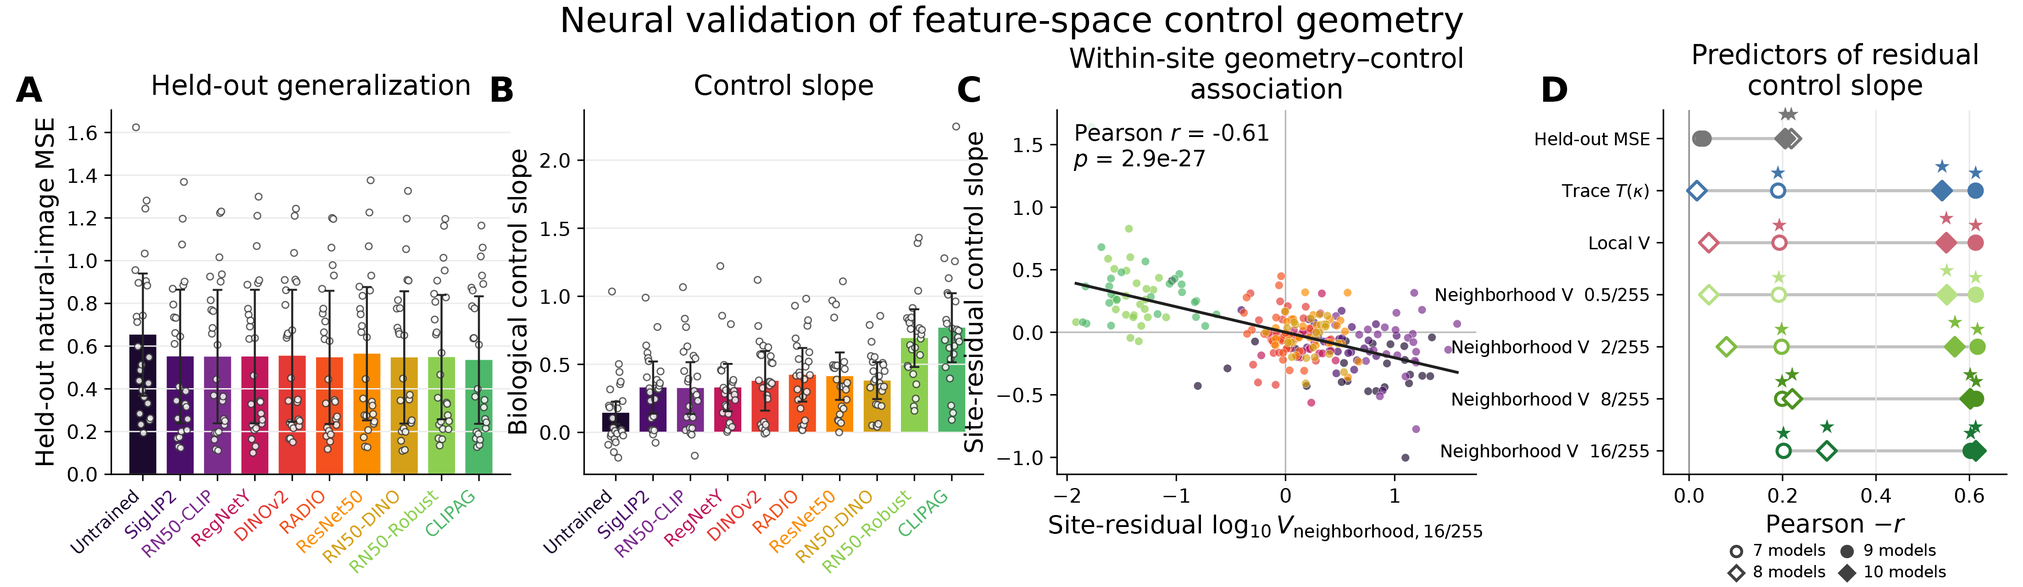
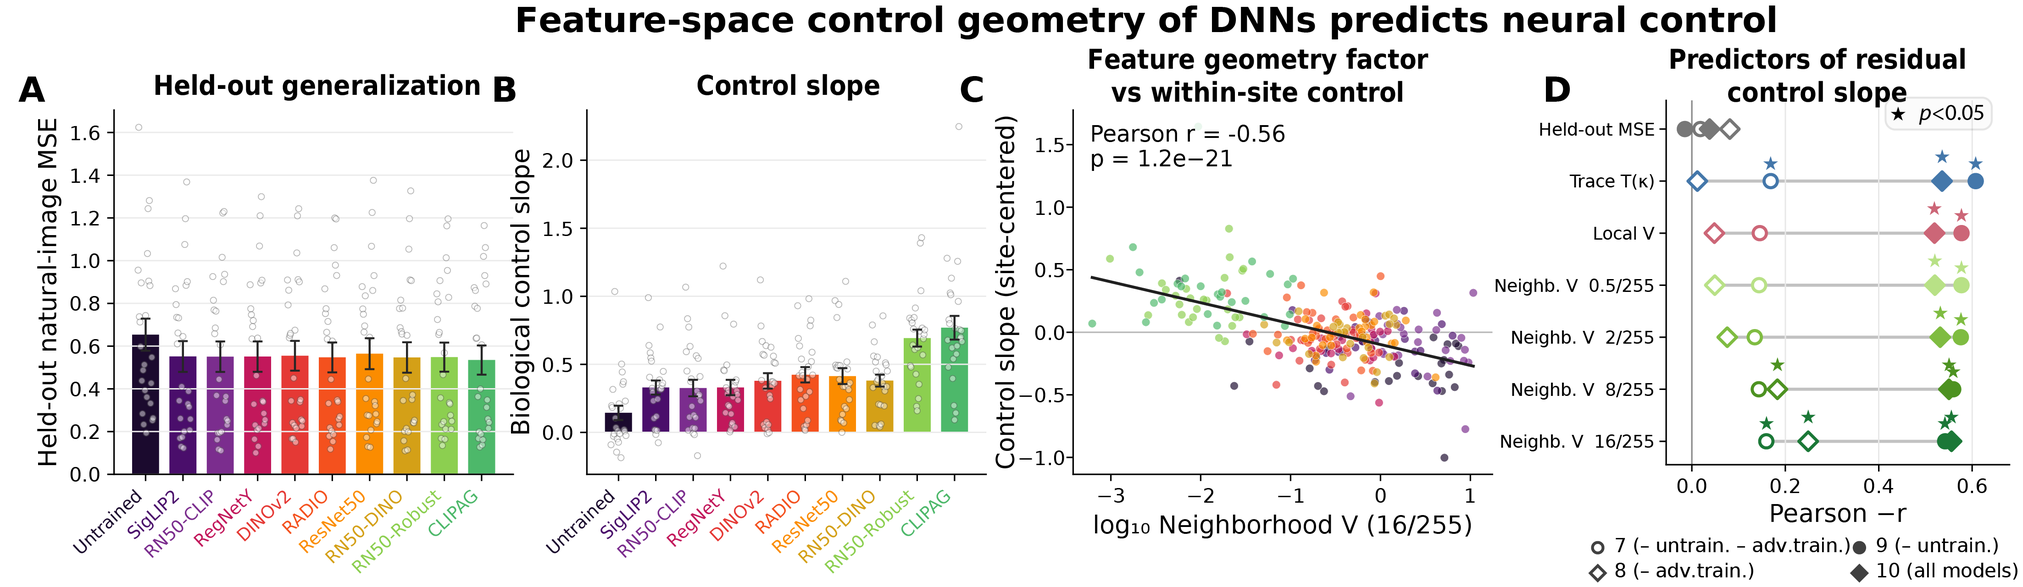
Rewrite the prose of pixel regression

diff --git a/main_body_compact.tex b/main_body_compact.tex
@@ -18,7 +18,7 @@ Classic generalization evaluates a fitted predictor on the natural-image distrib
 \end{abstract}
 
 \section{Introduction}
-A predictive model of a neural population is, in principle, also a controller: if $f(\x)$ predicts the response of a neuron to an image $\x$, one can synthesize images that drive $f$ to a target level and present them to the neuron. Model-based control of visual neurons has recently been carried out at scale with deep-network encoding models and gradient-based stimulus synthesis \citepPW. The result is puzzling. Encoding models that are nearly indistinguishable on held-out natural images generate visibly different stimuli and differ several-fold in how well those stimuli modulate the neuron; models that fail to control can still recognize the successful stimuli of other models; and the best predictor of control success is not accuracy but the spectral structure of the model's input gradient.
+A predictive model of a neural population is, in principle, also a controller: if $f(\x)$ predicts the response of a neuron to an image $\x$, one can synthesize images that drive $f$ to a target level and present them to the neuron. Model-based control of visual neurons has recently been carried out at scale with deep-network encoding models and gradient-based stimulus synthesis\todo{History... but recently \citepPW}. The result is puzzling. Encoding models that are nearly indistinguishable on predicting held-out natural images generate visibly different stimuli and differ several-fold in how well those stimuli modulate the neuron \textit{in vivo}; models that fail to control can still recognize the successful stimuli of other models; and the best predictor of control success is not accuracy but the spectral structure of the model's input gradient.
 
 We argue that none of this requires nonlinearity, depth or biology. It arises already for linear regression, from a single fact: \emph{control evaluates a model on a distribution the model itself generates}. Held-out prediction measures weight error in the metric of the data covariance $\Sigma$, which suppresses low-variance directions; accentuation moves along the fitted weight itself and therefore measures the same error in Euclidean geometry, where nothing is suppressed. For natural images, whose covariance spectrum decays over many orders of magnitude, this is the difference between not seeing an error and being dominated by it.
 
@@ -130,8 +130,10 @@ The question has a geometric reading (Fig.~\ref{fig:geometry}). For a given trai
 
 
 \paragraph{Toolkit.}
-We use deterministic equivalents (DEs) in the proportional limit $d/n\to\gamma$ \citep{dobriban2018high,hastie2022surprises}. It allows us to replace certain functions of the empirical covariance $\hat\Sigma$ with those of population covariance $\Sigma$, e.g. $\hat\Sigma(\hat\Sigma+\kappa I)^{-1}\asymp\Sigma(\Sigma+\kappa I)^{-1}$, 
-where finite-sample randomness is absorbed by the effective penalty $\kappa(\lambda)$, the positive root of the self-consistent equation $\kappa-\lambda=\frac{\kappa}{n}\operatorname{Tr}[\Sigma(\Sigma+\kappa I)^{-1}]$. More details about DEs are deferred to App.~\ref{sec:app-de-toolkit}. 
+We use deterministic equivalents (DEs) in the proportional limit $d/n\to\gamma$ \citep{dobriban2018high,hastie2022surprises}. It allows us to replace certain functions of empirical covariance $\hat\Sigma$ with those of the population covariance $\Sigma$, e.g. $\hat\Sigma(\hat\Sigma+\kappa I)^{-1}\asymp\Sigma(\Sigma+\kappa I)^{-1}$, 
+where finite-sample randomness is absorbed by the effective penalty $\kappa(\lambda)$, the positive root of the self-consistent equation $\kappa-\lambda=\frac{\kappa}{n}\operatorname{Tr}[\Sigma(\Sigma+\kappa I)^{-1}]$. 
+This allows us to capture the average effect of finite data $X$, without explicitly taking expectation over random matrices. 
+More details about DEs are deferred to App.~\ref{sec:app-de-toolkit}. 
 Our results are expressed through the teacher-weighted and unweighted spectral sums
 \begin{equation}
 B_{p,q}(\kappa)=\sum_k\frac{s_k^p}{(s_k+\kappa)^q}b_k^2,\qquad
@@ -141,18 +143,34 @@ For the ratio $N/D$ we use the leading approximation $\mu_N/\mu_D$ obtained from
 
 \begin{prop}[Pixel ridge: prediction and control]\label{prop:pixel-de}
 With $\kappa$, $B$ and $\mathrm{df}$ built from $\Sigma$,
+% \begin{equation}\small
+% E_{gen}\asymp E_{gen,DE}=\frac{n(\kappa^2B_{1,2}+\sigma^2)}{n-\mathrm{df}_2}-\sigma^2,
+% \quad
+% N\asymp \mu_N=B_{1,1},%\mu_N=
+% \quad
+% D\asymp \mu_D=B_{2,2}+\underbrace{\frac{\mathrm{df}_{1,2}}{n}\big(E_{gen,DE}+\sigma^2\big)}_{V}.%
+% \label{eq:pixel-de}
+% \end{equation}
 \begin{equation}\small
 E_{gen}\asymp E_{gen,DE}=\frac{n(\kappa^2B_{1,2}+\sigma^2)}{n-\mathrm{df}_2}-\sigma^2,
 \quad
-N\asymp \mu_N=B_{1,1},%\mu_N=
+N\asymp \mu_N=\underbrace{B_{1,1}}_{\bstar^\top \bar\beta_\kappa},%\mu_N=
 \quad
-D\asymp \mu_D=B_{2,2}+\frac{\mathrm{df}_{1,2}}{n}\big(E_{gen,DE}+\sigma^2\big).%
+D\asymp \mu_D=\underbrace{B_{2,2}}_{\|\bar\beta_\kappa\|^2}+\underbrace{\frac{\mathrm{df}_{1,2}}{n}\big(E_{gen,DE}+\sigma^2\big)}_{\text{norm inflation }  V}.%
 \label{eq:pixel-de}
 \end{equation}
 \end{prop}
-\red{
-The three quantities are sums of the same per-eigenmode weight error (Prop.~\ref{prop:mr-per-pc}) with different weights: $E_{gen}$ weights mode $k$ by $s_k$, $D$ weights every mode equally. The last term of $\mu_D$ is the Euclidean energy of estimation noise, $\frac1n(E_{gen}+\sigma^2)$ per effective mode times $\mathrm{df}_{1,2}=\sum_ks_k/(s_k+\kappa)^2$, which counts modes near and below $\kappa$ heavily. It inflates the student's norm without helping it predict, so the student over-shoots along its own path: $z_{acc}>0$, slope $<1$. Ridge also shrinks the signal ($B_{2,2}<B_{1,1}$), which pulls in the opposite direction. Whether the two cancel is a question about $\lambda$. For natural images, whose spectrum decays as a power law over $10^4$ pixel modes, $\mathrm{df}_{1,2}$ counts thousands of weakly constrained high-spatial-frequency modes; the estimation noise that lands there is precisely the high-frequency texture of failed accentuations, and it costs almost nothing in $E_{gen}$.
-}
+$E_{gen}$ recovers the classic in distribution generalization error  \cite{alex,surya,blake}. 
+Let $\bar\beta_\kappa=\Sigma(\Sigma+\kappa I)^{-1}\bstar$, the average student weight (DE) at given regularization. Then $N=B_{1,1}$ and the first term of $D$  are relatively benign and controlled by the teacher weights, since $\|\bstar\|^2\geq B_{1,1} \geq B_{2,2}$ (\ref{eq:}). 
+However, the 2nd term of $D$ marked as $V\geq0$ is the key issue. It summarizes how limited data $n$, higher noise ($\sigma^2$), higher generalization error $E_{gen}$ and a spectral summary $\mathrm{df}_{1,2}$ jointly inflate the student norm $D$. $\mathrm{df}_{1,2}$ counts the number of modes near the regularization threshold $\kappa$. 
+As a result, increasing $V$ will $D$ causing student to over-predict the variance it induces, leading to $\text{slope}=N/D<1$; it can also inflate $z=D/N-1$ , potentially leading to negative $R^2=1-z^2$. 
+Later we will generalize this term $V$ to predict control success of visual neuron (Sec.~\ref{sec:nonlinear}). 
+
+Note that, $V$ is not necessarily bad for control: at a special point where,  $B_{1,1}=B_{2,2}+V$, i.e. this inflation replenishes the norm deflation caused by the shrinkage, thus $N=D$ and control is perfect at leading order (the valley in Fig.~\ref{fig:pixel}\textbf{B}). 
+The condition is summarized below, and it's generally different from the condition for best generalization error which cross validation selects for. 
+% \red{
+% The three quantities are sums of the same per-eigenmode weight error (Prop.~\ref{prop:mr-per-pc}) with different weights: $E_{gen}$ weights mode $k$ by $s_k$, $D$ weights every mode equally. The last term of $\mu_D$ is the Euclidean energy of estimation noise, $\frac1n(E_{gen}+\sigma^2)$ per effective mode times $\mathrm{df}_{1,2}=\sum_ks_k/(s_k+\kappa)^2$, which counts modes near and below $\kappa$ heavily. It inflates the student's norm without helping it predict, so the student over-shoots along its own path: $z_{acc}>0$, slope $<1$. Ridge also shrinks the signal ($B_{2,2}<B_{1,1}$), which pulls in the opposite direction. Whether the two cancel is a question about $\lambda$. For natural images, whose spectrum decays as a power law over $10^4$ pixel modes, $\mathrm{df}_{1,2}$ counts thousands of weakly constrained high-spatial-frequency modes; the estimation noise that lands there is precisely the high-frequency texture of failed accentuations, and it costs almost nothing in $E_{gen}$.
+% }
 
 \begin{prop}[Prediction-optimal and control-optimal penalties differ]\label{prop:pixel-tuning}
 Among admissible values of $\kappa$, let $\kappa_{\rm gen}^{\star}$ be an
@@ -184,16 +202,25 @@ z^{(0)}_{acc,CV}=\frac{\kappa\,\mathrm{df}_{1,2}}{B_{1,1}}
 \label{eq:pixel-zacc-cv}
 \end{equation}
 \end{prop}
-Both conditions equate the noisy prediction risk to $n\kappa$ times a teacher-weighted spectral average, but they average with different powers of $s_k/(s_k+\kappa)$. For isotropic data the two averages coincide and cross-validation \red{calibrates} control for free. For an anisotropic spectrum they differ whenever the teacher's energy is not uniformly distributed over modes (\red{\ref{close_condition}}). \red{The gap is multiplied by $\kappa\,\mathrm{df}_{1,2}$, i.e. by the number of modes near the regularization edge. In Fig.~\ref{fig:geometry}, Eq.~\ref{eq:pixel-zacc-cv} is the distance along the path between its tangency with the prediction ellipsoid and its crossing of the control sphere.} This answers the question in the title for pixel regression: \emph{control is bad, despite prediction-optimal tuning, when the response is noisy, the spectrum is anisotropic, and many modes sit near $\kappa$}, which is exactly the noisy neuron with natural-image regime. 
+Geometrically, along the ridge path (Fig.~\ref{fig:geometry}),  $\kappa_{\rm gen}^{\star}$ is the tangency with the prediction ellipsoid and its crossing of the control sphere reveals $\kappa_{\rm acc}^{\star}$. 
+Both conditions equate the noisy prediction risk to $n\kappa$ times the average teacher power in a bump like spectral band $B_{i,i}/\mathrm{df}_{i,i}$, where $\mathrm{df}_{i,i}$ specifies the band of averaging. Since $\mathrm{df}_{1,2}\geq\mathrm{df}_{2,3}$, control averages at a slightly higher band. 
+For isotropic data the two averages coincide and cross-validation nullifies control error for free; similarly when the teacher's energy is uniformly distributed over modes  (\red{\ref{close_condition}}). For an anisotropic spectrum and a structured teacher, they differ generally, and their difference is proportional to the control error $z$ at cross validated penalty $\kappa_{\rm gen}^{\star}$. 
+ %teacher-weighted spectral average $B_{,}$, but they average with different powers of $s_k/(s_k+\kappa)$. 
+% Eq.~\ref{eq:pixel-zacc-cv} is the distance along the path between its tangency with the prediction ellipsoid and its crossing of the control sphere.
+%The gap is multiplied by $\kappa\,\mathrm{df}_{1,2}$, i.e. by the number of modes near the regularization edge. 
+
+We visualize the landscape of prediction and control error over the noise-regularization plane ($\sigma^2,\kappa$), for regression on natural images (Fig.~\ref{fig:pixel}A-C). 
+Our DE formula generally well tracks the Monte Carlo estimate of the error (Fig.\ref{suppfig:pixl-MC}), where deviation from leading DE occurs only at very low noise or low regularization cases. 
+The prediction-optimal and control-optimal penalties form two distinct valleys, where the $E_{acc}$ valley is a cusp and much sharper than $E_{gen}$. 
+At lower noise, prediction-optimal $\kappa^\star_{\rm gen}$ is also benign to control; however, at higher noise, $\kappa^\star_{\rm gen}$ gradually approaches and crosses the cliff of $R^2_{acc}=0$ , and control error fails catastrophically. 
+
+% Figure~\ref{fig:pixel} confirms the picture on real natural-image regression. The DE surfaces track Monte Carlo over eight decades of noise; the prediction-optimal and control-calibrated penalties form two distinct ridges; and along the cross-validated path the student remains an excellent predictor while its accentuation $R^2$ becomes negative at moderate noise. 
+
+% \red{In Fig.~\ref{fig:geometry}, Eq.~\ref{eq:pixel-zacc-cv} is the distance along the path between its tangency with the prediction ellipsoid and its crossing of the control sphere.} 
+This answers the question in the title for pixel regression: \emph{control is bad, despite prediction-optimal regularization, when the response is noisy, the spectrum is anisotropic, and many modes sit near $\kappa$}, which is exactly the noisy neuron with natural-image regime. 
 
 \begin{figure}[t]
     \centering
-    % \includegraphics[width=0.48\linewidth,height=0.3\textheight,keepaspectratio]{figures/draft_landscape_error.png}\hfill
-    % \includegraphics[width=0.5\linewidth,height=0.3\textheight,keepaspectratio]{figures/draft_slices_prediction_selected_r2.png}
-    % \includegraphics[width=\linewidth]{figures/paper_composite_default_best_figexport.pdf}
-    % \caption{\textbf{Pixel ridge on van Hateren images ($d=10^4$, $n=10^3$, disk teacher).}
-    % \textbf{A}~Leading-DE control error $E_{acc}/S$ over noise $\sigma^2/S$ and penalty $\lambda$. The prediction-optimal path (white) and the control-calibrated path (pink) separate at all noise levels; Monte Carlo on real images (App.) reproduces the surface.
-    % \textbf{B}~Along the empirically cross-validated path, $R^2_{gen}$ stays above $0.9$ while $R^2_{acc}$ collapses once $\sigma^2/S\gtrsim0.1$; DE (lines) versus 100 natural-image trials (markers, 10--90\% band). Bottom: selected $\lambda$ and $\kappa$.}
     \vspace{-15pt}
     \includegraphics[width=\linewidth]{figures/Figure_PixRidgeGeometry.png}
     \vspace{-15pt}
@@ -207,28 +234,36 @@ Both conditions equate the noisy prediction risk to $n\kappa$ times a teacher-we
     \label{fig:pixel}
 \end{figure}
 
-Figure~\ref{fig:pixel} confirms the picture on real natural-image regression. The DE surfaces track Monte Carlo over eight decades of noise; the prediction-optimal and control-calibrated penalties form two distinct ridges; and along the cross-validated path the student remains an excellent predictor while its accentuation $R^2$ becomes negative at moderate noise. 
+
 
 \paragraph{Peer review: recognition without generation.}
-Now evaluate $\bhat$ on the path of a peer $\bprime$ fitted at the same $\kappa$ with independent noise realization. The two noise realizations are uncorrelated, so the Euclidean noise term that inflates $D$ drops out of the cross products: ${\bhat}^\top\bprime\asymp B_{2,2}$ and ${\bstar}^\top\bprime\asymp B_{1,1}$, and the \red{peer gain} and score are
+Peer review evaluate $\bhat$ on the path of a peer $\bprime$. Here we assume the peer is fitted at the same $\kappa$ with independent noise realization. The two noise realizations are uncorrelated, so the Euclidean noise term that inflates $D$ drops out of the cross products: ${\bhat}^\top\bprime\asymp B_{2,2}$ and ${\bstar}^\top\bprime\asymp B_{1,1}$, since $B_{1,1}\geq B_{2,2}$ (\red{Eq.~\ref{eq:app}}), the peer slope and score are
 \begin{equation}
-G_{peer}=\frac{{\bhat}^\top\bprime}{{\bstar}^\top\bprime}\asymp\frac{B_{2,2}}{B_{1,1}}\in(0,1],
+%G_{peer}=\frac{{\bhat}^\top\bprime}{{\bstar}^\top\bprime}\asymp\frac{B_{2,2}}{B_{1,1}}\in(0,1]
+\text{slope}_{peer}=\frac{{\bstar}^\top\bprime}{{\bhat}^\top\bprime}\asymp\frac{B_{1,1}}{B_{2,2}}\in[1,\infty),
 \qquad
 R^{2,(0)}_{peer}=1-\Big(1-\frac{B_{2,2}}{B_{1,1}}\Big)^2\in(0,1]
 \label{eq:peer-de}
 \end{equation}
-(Prop.~\ref{prop:mr-peer}). Peer review measures only the shared shrinkage bias: at leading order it is never negative, degrades gracefully with noise, and is symmetric between the two fits. Self-evaluation instead carries the estimator's own Euclidean noise energy through Eq.~\ref{eq:pixel-de}, so $z_{acc}$ grows without bound with $\sigma^2/n$ and $R^2_{acc}$ becomes arbitrarily negative. A student can therefore track a peer's path while failing on its own, which is the linear form of Fig.~\ref{fig:phenomena}C. The asymmetry between a strong and a weak generator in the data arises when the two differ in noise energy, i.e. in their feature maps (Sec.~\ref{sec:feature}); and measured responses along a barely modulated path add trial noise that no evaluator can explain, which is why even the peer scores of a weak generator's images are poor.
+(Prop.~\ref{prop:mr-peer}). 
+Note, on the leading order, the peer review slope is never less than $1$, i.e., generally, the \textit{student is under-predicting the teacher on its peer's path}; the peer review $R^2$ is non-negative, and degrades gracefully with noise, through CV selected regularization $\kappa_{cv}$. 
+In contrast, for self generated path, the joint effect of finite data, noise, and generalization error ($\frac{\mathrm{df}_{1,2}}{n}\big(E_{gen,DE}+\sigma^2\big)$ in Eq.~\ref{eq:pixel-de}) inflates the student norm $D=\|\bhat\|^2$, causing over-prediction of teacher ($\text{slope}_{acc}=N/D<1$), and arbitrarily large $z_{acc}=D/N-1$ and negative $R^2$. 
+The sign differences in neural data confirm this leading order picture: in \citetPW, the peer review score between pairs of models, have $R^2=0.04,[-0.06,0.10]$, $slope=1.35,[1.14,1.59]$ ($n=90$); while accentuation score (eval on self generated path) have $R^2=-4.17,[-4.59,-3.51]$, $slope=0.38,[0.33,0.42]$ (median, [IQR] $n=10$). % stats test between the two \todo
+Note, in simplistic pixel space peer review, the slope and $R^2$ are symmetric between models ($A\leftarrow B$ or $B\leftarrow A$). In practice, since students regress onto different features, the review score becomes asymmetric (Sec.~\ref{sec:feature}). 
+% Peer review measures only the shared shrinkage bias: at leading order it is never negative, degrades gracefully with noise, and is symmetric between the two fits. Self-evaluation instead carries the estimator's own Euclidean noise energy through Eq.~\ref{eq:pixel-de}, so $z_{acc}$ grows without bound with $\sigma^2/n$ and $R^2_{acc}$ becomes arbitrarily negative. A student can therefore track a peer's path while failing on its own, which is the linear form of Fig.~\ref{fig:phenomena}C. 
+% The asymmetry between a strong and a weak generator in the data arises when the two differ in their feature maps (Sec.~\ref{sec:feature}); %and measured responses along a barely modulated path add trial noise that no evaluator can explain, which is why even the peer scores of a weak generator's images are poor.
 
 \begin{figure}[t]
     \centering
     \vspace{-15pt}
-    \includegraphics[width=0.55\linewidth,height=0.22\textheight,keepaspectratio]{figures/feature_summary_statistics_flow.pdf}%\hfill
-    \includegraphics[width=0.45\linewidth,height=0.2\textheight,keepaspectratio]{figures/VanHateren_Top500PC_prediction_null_feature_rotation.png}
+    % \includegraphics[width=0.55\linewidth,height=0.22\textheight,keepaspectratio]{figures/feature_summary_statistics_flow.pdf}%\hfill
     % \includegraphics[width=0.44\linewidth,height=0.22\textheight,keepaspectratio]{figures/nonlinear_control_biological_validation.pdf}\\[2pt]
+    % \includegraphics[width=0.45\linewidth,height=0.2\textheight,keepaspectratio]{figures/VanHateren_Top500PC_prediction_null_feature_rotation.png}
+    \includegraphics[width=\linewidth]{figures/Figure_linear_feature_gauge.png}
     \vspace{-15pt}
     \caption{\textbf{Feature geometry decides control.}
-    \textbf{A}~Dependency graph: $(\Sigma_F,F\Sigma\bstar,S,\sigma^2,n)$ fix generalization and the cross-validated penalty; control additionally needs $\GramDef$ and $F\bstar$ (draft: to be simplified to $\sim$8 boxes).
-    \textbf{B}~Rotating a top-500-PC projector of van Hateren images into the prediction-null spectral tail: $E_{gen}$ and $R^2_{gen}$ are invariant while $R^2_{acc}$ and the slope collapse; DE (lines) matches finite-$n$ Monte Carlo (markers). }
+    \textbf{A}~Dependency graph: $(\Sigma_F,F\Sigma\bstar,S,\sigma^2,n)$ fix generalization and the cross-validated penalty; control additionally needs $\GramDef$ and $F\bstar$. 
+    \textbf{B-D}~For van Hateren images, rotating the top-500-PC projector feature into the spectral tail: $E_{gen}$ and $R^2_{gen}$ are invariant while $R^2_{acc}$ and the slope collapse; DE (lines) matches finite-$n$ Monte Carlo (markers). }
     %\textbf{C}~Neuronal data: site-demeaned association of each candidate predictor with biological control slope (left) and control error (right) across nine trained (filled) and seven conventionally trained (open) models. Held-out error carries no model-order information; the exact trace, $V_\phi$ and its neighborhood versions do. (Draft: keep 5 rows.)}
     \label{fig:feature}%\label{fig:nonlinear-biological-validation}
 \end{figure}
@@ -249,46 +284,49 @@ D_{DE}=\|\tilde\beta_\kappa\|^2+\frac{E_{gen,DE}+\sigma^2}{n}\,T_F(\kappa),
 where $\tilde\beta_\kappa=F^\top(\Sigma_F+\kappa I)^{-1}F\Sigma\bstar$ is the mean pixel weight and
 $T_F(\kappa):=\operatorname{Tr}[\Gram(\Sigma_F+\kappa I)^{-2}\Sigma_F]$.
 \end{prop}
-Prediction sees the feature map only through $\Sigma_F$ and $F\Sigma\bstar$: the whole curve $E_{gen,DE}(\kappa)$, hence the cross-validated $\kappa$ and $R^2_{gen}$, is a function of $(\Sigma_F,F\Sigma\bstar,S,\sigma^2,n)$. Control additionally sees $\Gram$, through $T_F$ and $\|\tilde\beta_\kappa\|$, and $F\bstar$, through $N_{DE}$ (Fig.~\ref{fig:feature}A). This is the statistical content of the dissociation: the prediction problem does not identify the control problem.
-
+% A salient observation is: prediction sees the feature map only through $\Sigma_F$ and $F\Sigma\bstar$, so the whole curve $E_{gen,DE}(\kappa)$, hence the cross-validated $\kappa$ and $R^2_{gen,cv}$, is a function of the sumary statistics $(\Sigma_F,F\Sigma\bstar,S,\sigma^2,n)$. Control additionally sees $\Gram$, (through $T_F$ and $\|\tilde\beta_\kappa\|$), and $F\bstar$, (through $N_{DE}$) (Fig.~\ref{fig:feature}A). Thus, for feature regression, 
+%This is the statistical content of the dissociation: the prediction problem does not identify the control problem.
+A salient observation is that prediction sees the feature map only through $\Sigma_F$ and $F\Sigma\bstar$: the whole curve $E_{gen,DE}(\kappa)$, hence the cross-validated $\kappa$ and $R^2_{gen,cv}$, is a function of the summary statistics $(\Sigma_F, F\Sigma\bstar, S_\perp, \sigma^2, n)$. Control additionally depends on $\Gram$, through $T_F$ and $\|\tilde\beta_\kappa\|$, and on $F\bstar$, through $N_{DE}$ (Fig.~\ref{fig:feature}A). Thus, for feature regression, \textit{the statistics governing control generically subsume and exceed those governing prediction}; except for special cases, where the two sets coincide (e.g. $\Sigma=I$, so $\Gram=\Sigma_F$,$F\bstar=F\Sigma\bstar$; see \red{App.} for discussion). 
+This extra degree of freedom can be seen clearly through the group that transforms feature map without affecting prediction. 
 \begin{prop}[Prediction-preserving gauge]\label{prop:gauge}
-For $\Sigma\succ0$ and any orthogonal $Q$ with $Q\Sigma^{1/2}\bstar=\Sigma^{1/2}\bstar$, the map $F\mapsto F\Sigma^{1/2}Q\Sigma^{-1/2}$ preserves $\Sigma_F$ and $F\Sigma\bstar$, hence the training law, $E_{gen,DE}(\kappa)$ and the DE cross-validated penalty, while changing $\Gram$ and $F\bstar$ and therefore control.
+For $\Sigma\succ0$ and any orthogonal $Q$ with $Q\Sigma^{1/2}\bstar=\Sigma^{1/2}\bstar$, the map $F\mapsto F\Sigma^{1/2}Q\Sigma^{-1/2}$ preserves $\Sigma_F$ and $F\Sigma\bstar$, hence the joint feature–response covariance, $E_{gen,DE}(\kappa)$ and the DE-based prediction-optimal penalty $\kappa^\star_{gen}$. %, while changing $\Gram$ and $F\bstar$ and therefore control. %
 \end{prop}
-For white data, the accentuation error is also invariant across this gauge group, leading to no dissociation. Variation of accentuation error grows with anisotropy. Rotating within it moves feature energy from high-variance to low-variance pixel directions at no cost to prediction (Fig.~\ref{fig:feature}B): along a continuous path, $E_{gen}$, $R^2_{gen}$ and the selected penalty are exactly constant, while $\operatorname{Tr}(FF^\top)$ grows by four orders of magnitude and $R^2_{acc}$ falls from near one to $-10^{8}$. Random draws from the family span this whole range (\red{App.}), so a population of equally predictive backbones with widely different control is the generic situation, not a construction.
+Note, the gauge acts nontrivially on control only when the input is anisotropic: in white data, control error is also invariant to this group. 
+\red{Variation of accentuation error grows with anisotropy. Rotating within it moves feature energy from high-variance to low-variance pixel directions at no cost to prediction (Fig.~\ref{fig:feature}B): along a continuous path, $E_{gen}$, $R^2_{gen}$ and the selected penalty are exactly constant, while $\operatorname{Tr}(FF^\top)$ grows by four orders of magnitude and $R^2_{acc}$ falls from near one to $-10^{8}$. Random draws from the \textit{rotation group} span a huge range (\red{App.}), so a population of equally predictive backbones with widely different control is the generic situation, not a construction.}
+% For white data, the accentuation error is also invariant across this gauge group, leading to no dissociation. 
 
 \paragraph{What makes a map fragile.}
-The factor $T_F$ is response-independent and has the spectral form (Prop.~\ref{prop:mr-fragility})
+The factor $T_F$ is response-independent and has the spectral form
 \begin{equation}
-T_F(\kappa)=\sum_{k:s_k>0}\Big(\frac{s_k}{s_k+\kappa}\Big)^2\frac{\|g_k\|^2}{g_k^\top\Sigma g_k},
+T_F(\kappa):=\operatorname{Tr}[FF^\top(\Sigma_F+\kappa I)^{-2}\Sigma_F]=\sum_{k:s_k>0}\Big(\frac{s_k}{s_k+\kappa}\Big)^2\frac{\|g_k\|^2}{g_k^\top\Sigma g_k},
 \qquad g_k:=F^\top v_k,
 \label{eq:TF}
 \end{equation}
-with $(s_k,v_k)$ the eigenpairs of $\Sigma_F$. It averages, over the feature PCs that survive ridge shrinkage, the ratio between the Euclidean energy of the backpropagated PC gradient and its energy under the natural-image covariance. A map is fragile when its well-resolved feature directions backpropagate into low-variance, high-spatial-frequency pixel directions. This is the linear counterpart of the third observation of Sec.~\ref{sec:phenomena}, and it can be computed from the map and the image statistics alone.
+with $(s_k,v_k)$ the eigenpairs of $\Sigma_F$ (Prop.~\ref{prop:mr-fragility}). It averages, over the feature PCs that survive ridge shrinkage ($s_k^2/(s_k+\kappa)^2\sim1$), the ratio between the Euclidean energy of the backpropagated PC gradient $\|g_k\|^2$ and its energy under the natural-image covariance $g_k^\top\Sigma g_k$. Thus, a map is fragile when its \textit{well-resolved feature directions backpropagate into low-variance, high-spatial-frequency pixel directions}. This is the linear counterpart of the third observation of Sec.~\ref{sec:phenomena}, and it can be computed from the map and the image statistics alone.
 
-\begin{center}
-\fbox{\parbox{0.96\linewidth}{\small
-\textbf{When is control fragile although prediction is fine?}
+\paragraph{Summary: When is control fragile although prediction is fine?}
 Holding the prediction error fixed, the leading control error (Eqs.~\ref{eq:pixel-de}, \ref{eq:pixel-zacc-cv}, \ref{eq:feature-de}) grows with three separable factors:
 \textbf{(i) noise} $(E_{gen}+\sigma^2)/n$, the estimation-noise level, which is the only factor visible from held-out accuracy;
 \textbf{(ii) spectrum} the mismatch between prediction-optimal and control-optimal penalties, Eq.~\ref{eq:pixel-zacc-cv}, which is zero for white data and grows with anisotropy and with teacher energy in low-variance modes;
 \textbf{(iii) map} $T_F$, the ridge-weighted ratio of Euclidean to natural-covariance gradient energy, a property of the feature map alone.
 Visual neuronal responses are known to be highly noisy \red{\cite{?}} meeting (i); 
-Natural images make (ii) large for every model; the feature map decides (iii), and equally predictive maps can differ in it without bound.}}
-\end{center}
+Natural images make (ii) large for every model; the feature map decides (iii), and equally predictive maps can differ in it without bound.
+
 
 
 \begin{figure}[t]
     \centering
     \vspace{-10pt}
     \includegraphics[width=\linewidth]{figures/Figure_nonlinear_neuro_diagnostic.png}
-    \vspace{-15pt}
+    \vspace{-18pt}
     \caption{\textbf{Nonlinear gradient-feature geometry predicts biological control across encoding models.}
-% We evaluated ten encoding models at 25 neural recording sites from five subjects. Control-session predictions use a frozen site-specific affine map fitted only on natural-image anchors shared across sessions.
-We reproduced the results using published data from \citetPW. 
-\textbf{A}~MSE on held-out natural images during the control session, analogous to $E_{\mathrm{val}}\approx E_{gen}+\sigma^2$.
-\textbf{B}~Biological control slope of measured over predicted responses for model-generated stimuli. In \textbf{A,B}, bars are mean of 25 neural sites (dots), \red{and error bars denote $\pm2$ subject-level SE}.
-\textbf{C}~After removing each site's mean across-model, the factor $V_{\phi}=(E_{\mathrm{val}}/n)T_{\phi}(\kappa)$ computed using Jacobian with neighborhood of scale $16/255$ (\red{cf.Eq.\ref{x}}) is strongly anticorrelated with control slope (Pearson $r=-0.61$). % across 250 site--model pairs 
-\textbf{D}~Pearson $-r$ between residual control slope and some predictive factors (held-out MSE, exact trace, exact local $V_{\phi}$, or neighborhood $V_{\phi}$ at four scales); our factor $V,T$ outperforms held-out MSE in predicting control slope; \red{larger values indicate stronger association in the predicted direction}. Markers denote: 10 - all, 9 - exclude Untrained, 8 - exclude adversarial trained (RN50-Robust and CLIPAG), 7 - exclude all three. Stars denote raw two-sided Pearson $p<0.05$.} %Site means are fixed from all ten models.  without multiple-comparison correction
+% We evaluated ten encoding models at 25 neural recording sites from five subjects. Control-session responses were aligned to the encoding-session scale using a site-specific affine map fitted only on repeated natural-image anchors and shared across models.
+We reproduced the results using published preprocessed data from \citetPW. 
+\textbf{A}~MSE on held-out natural-image in the control session, analogous to $E_{\mathrm{val}}\approx E_{\mathrm{gen}}+\sigma^2$.
+\textbf{B}~Control slope between \textit{in vivo} measured and model-predicted neural responses to accentuated stimuli. In \textbf{A,B}, bars show the mean across 25 sites, dots show individual sites, and error bars denote $\pm1$ SE across sites.
+\textbf{C}~Raw $\log_{10}V_\phi$ computed from Jacobian energy averaged over a $16/255$ neighborhood is anticorrelated with control slope after removing each site's ten-model mean (Pearson $r=-0.56$ across 250 site--model pairs).
+\textbf{D}~Pearson correlation ($-r$) between site-centered control slope and seven raw $\log_{10}$ predictors: held-out MSE, the gradient-geometry trace $T_\phi(\kappa)$, exact-local $V_\phi$, and neighborhood $V_\phi$ at four scales. 
+Control slope was mean-subtracted within site using all ten models; predictors remained raw. Markers denote 10/9/8/7-model subsets (all / no untrained AlexNet / no robust models (CLIPAG,RN50-robust) / neither), and stars indicate raw two-sided Pearson $p<0.05$.} %without multiple-comparison correction
     \label{fig:nonlinear-biological-validation}
 \end{figure}
 

diff --git a/main_body_compact_draft.tex b/main_body_compact_draft.tex
@@ -253,3 +253,4 @@ A single mechanism accounts for the three neuronal phenomena: prediction measure
 
 \paragraph{Limitations.}
 The theory assumes Gaussian inputs, a linear teacher, a fixed linear feature map and a one-dimensional accentuation path from a centered seed; the leading DEs predict typical fits and the location of the control optimum but not the fluctuation-dominated error at that optimum (App.~\ref{sec:app-ratio-corrections}). The nonlinear diagnostic is not a theorem, and its biological validation is descriptive. Extending the deterministic equivalents to learned nonlinear features and to curved accentuation trajectories is the natural next step.
+

diff --git a/accentuation_rmt_main_compact_draft.tex b/accentuation_rmt_main_compact_draft.tex
@@ -88,6 +88,8 @@ This work is theoretical and uses synthetic simulations, natural-image covarianc
 \appendix
 \tableofcontents{}
 % \input{theory_appendix.tex}
+\input{extended_results}
+% \input{extended_methods}
 \input{theory_appendix_polished}
 \input{appendix_vanhateren_landscape_methods}
 \end{document}
